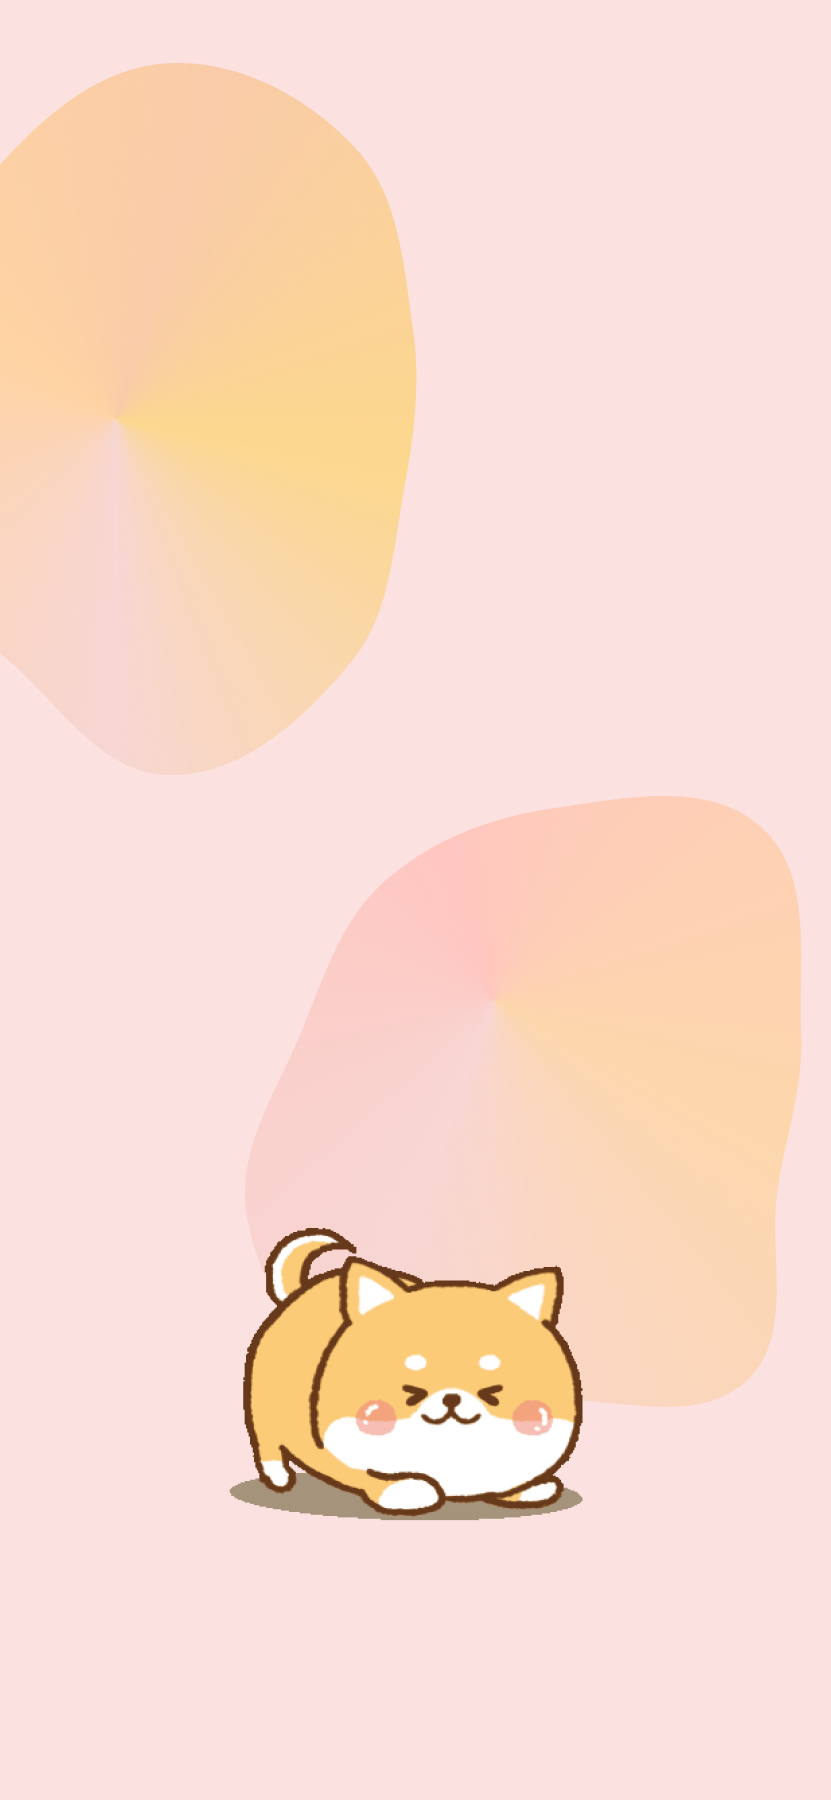
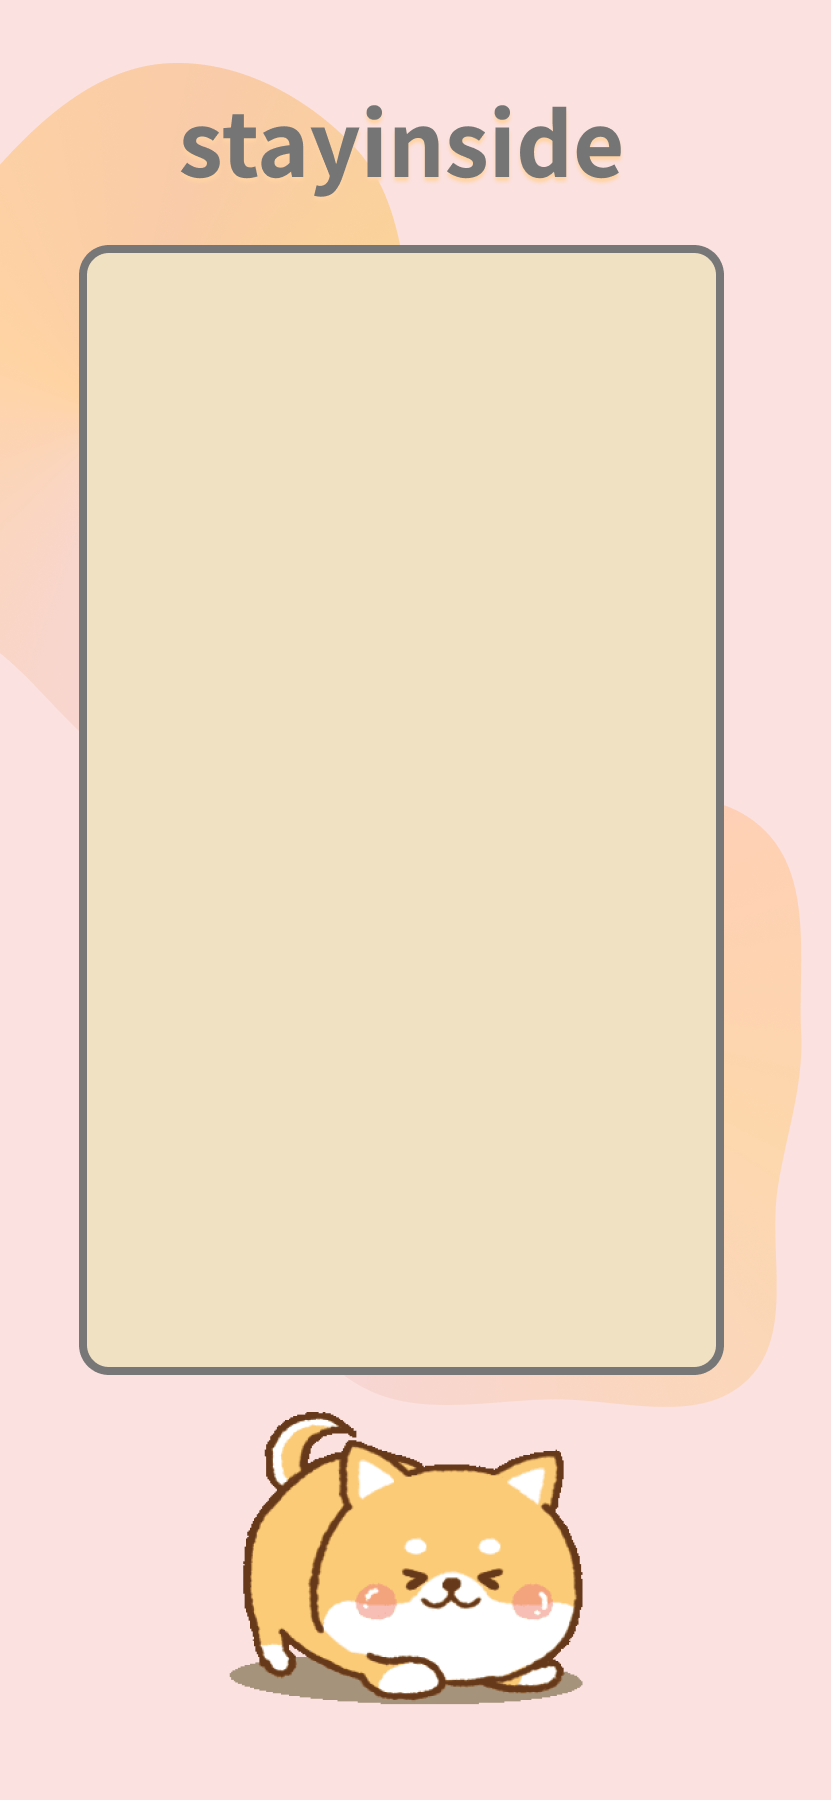
Added a login thing but uhhh LOL rip the sidebar

diff --git a/src/override/css/style.css b/src/override/css/style.css
@@ -11,23 +11,7 @@ header {
   text-align: center;
   font-size: 60px;
   color: #757575;
-  font-weight: 600;
-  z-index: 100;
-}
-
-
-.box {
-  height: 60vh;
-  border:3px solid #000;
-  background-color: #F0E1C2;
-  border-radius: 20px;
-  z-index: 100;
-  position: relative;
-  margin-left: 15px;
-  margin-right: 30px;
-  padding: 10px;
-  width: fill;
-  max-width: inherit;
+  font-weight: 800;
 }
 
 .box-img {
@@ -42,6 +26,16 @@ header {
   padding: 10px;
   width: fill;
   max-width: inherit;
+}
+
+.login {
+  width: 100%; /* Full width */
+  height: 100%; /* Full height */
+  z-index: 1;
+  background-color: white;
+  margin: 5% auto 15% auto;
+  border: 1px solid #888;
+  width: 50%;
 }
 
 .cal {
@@ -89,4 +83,94 @@ header {
   background: linear-gradient(left, #FCAA6C, #FFC7C0);
   -webkit-background-clip: text;
   -webkit-text-fill-color: black;
+}
+
+/* Full-width input fields */
+input[type=text], input[type=password] {
+  width: 100%;
+  padding: 12px 20px;
+  margin: 8px 0;
+  display: inline-block;
+  border: 1px solid #ccc;
+  box-sizing: border-box;
+  border-radius: 10px;
+}
+
+/* Set a style for all buttons */
+button {
+  background-color: #FCAA6C;
+  color: white;
+  padding: 14px 20px;
+  margin: 8px 0;
+  border: none;
+  cursor: pointer;
+  width: 100%;
+  border-radius: 10px;
+}
+
+button:hover {
+  opacity: 0.8;
+}
+
+/* Center the image and position the close button */
+.imgcontainer {
+  text-align: center;
+  margin: 24px 0 12px 0;
+  position: relative;
+}
+
+img.avatar {
+  width: 40%;
+  border-radius: 50%;
+}
+
+.container {
+  padding: 16px;
+}
+
+.modal {
+  display: none;
+  position: fixed;
+  z-index: 1;
+  left: 0;
+  top: 0;
+  width: 100%;
+  height: 100%;
+  overflow: auto;
+  background-color: rgb(0,0,0);
+  background-color: rgba(0,0,0,0.6);
+  padding-top: 60px;
+}
+
+/* Modal Content/Box */
+.modal-content {
+  background-color: #fefefe;
+  margin: 5% auto 15% auto;
+  border: 1px solid #888;
+  width: 30%;
+}
+
+.close:hover,
+.close:focus {
+  cursor: pointer;
+}
+
+.animate {
+  -webkit-animation: animatezoom 0.6s;
+  animation: animatezoom 0.6s
+}
+
+@keyframes animatezoom {
+  from {transform: scale(0)}
+  to {transform: scale(1)}
+}
+
+.animate-back {
+  -webkit-animation: animatezoom-back 0.6s;
+  animation: animatezoom-back 0.6s
+}
+
+@keyframes animatezoom-back {
+  from {transform: scale(1)}
+  to {transform: scale(0)}
 }

diff --git a/src/override/override-2.html b/src/override/override-2.html
@@ -6,21 +6,43 @@
 	<link rel="stylesheet" href="css/style.css">
 </head>
 <body>
+
+	<!-- Overlay -->
+	<button onclick="document.getElementById('id01').style.display='block'" style="width:auto;">Login</button>
+
+	<div id="id01" class="modal">
+
+	  <form class="modal-content animate" action="/action_page.php" method="post">
+	    <div class="imgcontainer">
+	      <span onclick="document.getElementById('id01').style.display='none'" class="close" title="Close Modal">&times;</span>
+	      <header>stayinside</header>
+	    </div>
+
+	    <div class="container">
+	      <label for="uname"><b>Username</b></label>
+	      <input type="text" placeholder="Enter Username" name="uname" required>
+
+	      <label for="psw"><b>Password</b></label>
+	      <input type="password" placeholder="Enter Password" name="psw" required>
+
+	      <button onclick="document.getElementById('id01').style.display='none'" class="close" title="Close Modal">Create account</button>
+	    </div>
+
+	    <div class="container" style="background-color:#f1f1f1">
+	    </div>
+	  </form>
+	</div>
+
 	<div class="">
 		<div class="left">
-			<br> <br> <br>
-			<header>stayinside</header>
 			<div class="bg"><img src="assets/bg.png" alt="Background" style="width:500px;height:100vh";></div>
 			<br>
-			<div class="box">
-				<br>
 				<div class="box-img"></div>
 				<br>
 				<div class="btn"><button class="effect">View on r/</button></div>
 				<div class="btn"><button class="effect">Do with friends</button></div>
 				<div class="btn"><button class="effect">New activity</button></div>
 				<div class="btn"><button class="effect">Complete</button></div>
-			</div>
 		</div>
 
 	<div>
@@ -28,6 +50,7 @@
 	</div>
 
 	<div class="right">
+
 		<!-- Calendar -->
 		<header>April 2020</header>
 		<div class="cal">
@@ -82,6 +105,18 @@
 		</div>
 	</div>
 </div>
+
+<script>
+// Get the modal
+var modal = document.getElementById('id01');
+
+// When the user clicks anywhere outside of the modal, close it
+window.onclick = function(event) {
+    if (event.target == modal) {
+        modal.style.display = "none";
+    }
+}
+</script>
 
 </body>
 </html>
